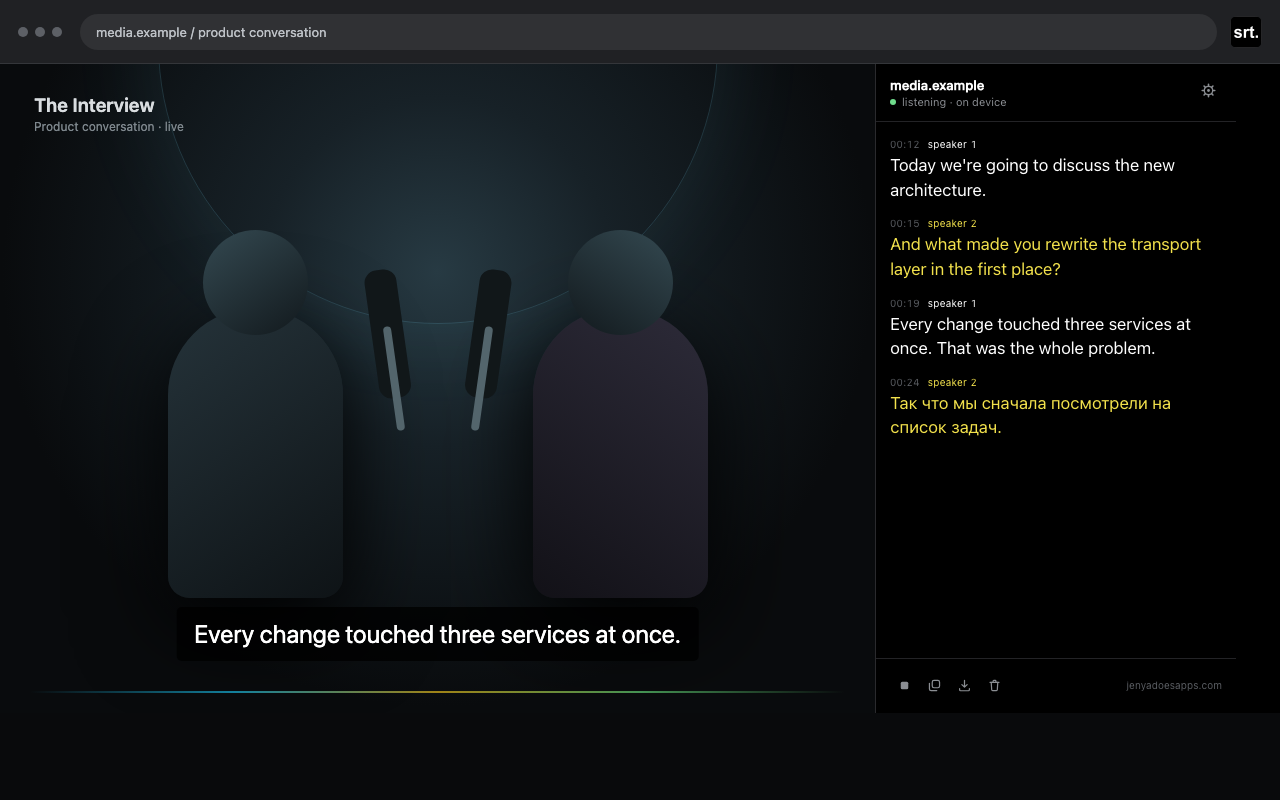
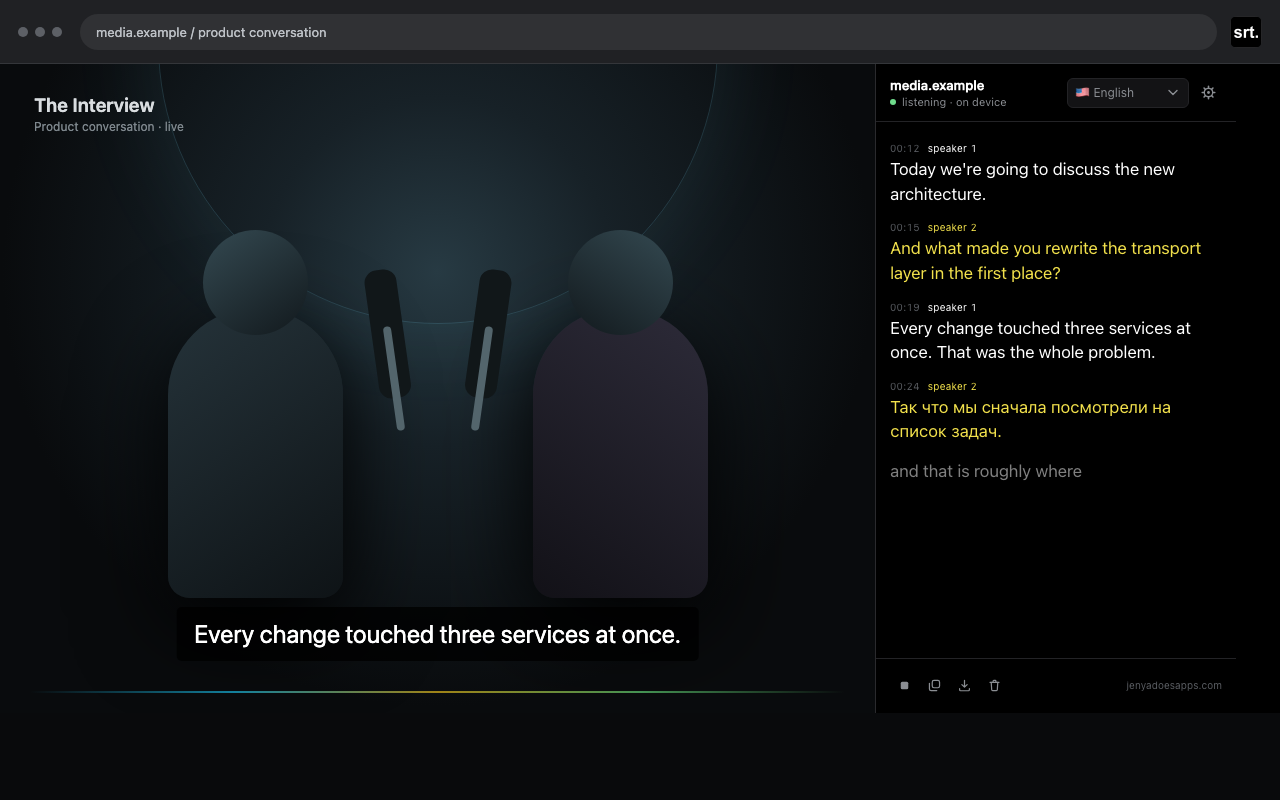
Prepare the 0.2.0 release
Bumps the version, refreshes the store copy for translation, and re-shoots
the screenshots against the panel as it is now — the old ones predate the
language picker, the translated lines, and the footer.

Two claims in the listing and the privacy policy were left over from the
spoken-language 'auto' setting that was removed: the extension no longer
reads the page's declared language, so `scripting` is only the on-page
overlay now, and the page language is out of the disclosed data.

Adds a third screenshot for translation, generated from store-preview.html,
which now takes a scene name so any panel state can be shot.

Claude-Session: https://claude.ai/code/session_01HuwxVxXeLPyQn9wPt3vXnH

diff --git a/store-preview.html b/store-preview.html
@@ -25,6 +25,8 @@
       .program strong { display: block; font-size: 19px; font-weight: 600; }
       .program span { color: #7e878d; font-size: 12px; }
       .caption { position: absolute; left: 50%; bottom: 52px; transform: translateX(-50%); max-width: 720px; padding: 10px 18px; border-radius: 5px; background: rgba(0,0,0,.78); color: #fff; font-size: 25px; line-height: 1.35; text-align: center; white-space: nowrap; }
+      .caption .sub { display: none; margin-top: 4px; font-size: 18px; opacity: .62; }
+      body.translated .caption .sub { display: block; }
       .wave { position: absolute; left: 30px; right: 30px; bottom: 20px; height: 2px; background: linear-gradient(90deg, transparent, #19bfea, #efc31c, #65dc79, transparent); opacity: .65; }
       iframe { width: 405px; height: 100%; border: 0; border-left: 1px solid #2a2a2d; background: #000; }
     </style>
@@ -40,18 +42,29 @@
         <div class="halo"></div>
         <div class="program"><strong>The Interview</strong><span>Product conversation · live</span></div>
         <div class="stage"><div class="person"></div><div class="person alt"></div></div>
-        <div class="caption">Every change touched three services at once.</div>
+        <div class="caption">
+          Every change touched three services at once.
+          <div class="sub">Каждое изменение задевало три сервиса сразу.</div>
+        </div>
         <div class="wave"></div>
       </section>
       <iframe id="panel" src="/preview.html" title="Tab Subtitles side panel"></iframe>
     </main>
     <script>
+      // ?settings shows the settings sheet, ?scene=translated the translated
+      // transcript; without either, the panel keeps its own live scene.
       const panel = document.getElementById('panel');
       panel.addEventListener('load', () => {
-        if (!new URLSearchParams(location.search).has('settings')) return;
+        const params = new URLSearchParams(location.search);
+        const settings = params.has('settings');
+        const scene = params.get('scene');
+        if (!settings && !scene) return;
+        if (scene === 'translated') document.body.classList.add('translated');
         setTimeout(() => {
-          panel.contentWindow?.__scene?.('settings');
-          setTimeout(() => panel.contentDocument?.querySelector('button[aria-label="settings"]')?.click(), 150);
+          panel.contentWindow?.__scene?.(settings ? 'settings' : scene);
+          if (settings) {
+            setTimeout(() => panel.contentDocument?.querySelector('button[aria-label="settings"]')?.click(), 150);
+          }
         }, 500);
       });
     </script>

diff --git a/src/dev/preview.ts b/src/dev/preview.ts
@@ -102,13 +102,16 @@ const SCENES: Record<string, () => void> = {
       settings: { ...base.settings, language: 'en', translateTo: 'ru' },
       transcription: { ...base.transcription, status: 'running', active: 'chrome' },
     };
+    // Every line is spoken in the source language here, so the screenshot
+    // reads as one conversation being translated in one direction.
     currentSegments = segments.map((segment, index) => ({
       ...segment,
+      text: index === 3 ? 'So we started by looking at the list of tasks.' : segment.text,
       translation: [
         'Сегодня мы обсудим новую архитектуру.',
         'А что заставило вас переписать транспортный слой?',
         'Каждое изменение задевало три сервиса сразу. В этом и была проблема.',
-        'So we started by looking at the list of tasks.',
+        'Так что мы сначала посмотрели на список задач.',
       ][index],
     }));
   },

diff --git a/CHROMEWEBSTORE.md b/CHROMEWEBSTORE.md
@@ -8,7 +8,7 @@
 
 **Summary (132 characters maximum):**
 
-Live captions for tab audio, with optional offline transcription, subtitle overlays, speaker colors, and SRT/VTT export.
+Live captions for tab audio, with on-device translation, optional offline transcription, speaker colors, and SRT/VTT export.
 
 **Detailed description:**
 
@@ -35,6 +35,7 @@ Some protected pages and DRM-protected media cannot be captured. Offline transcr
 - Store icon: `store/media/icon-128.png` (the same artwork is packaged at `dist/icons/icon-128.png`)
 - Screenshot — live captions: `store/media/screenshot-1-live.png`
 - Screenshot — settings: `store/media/screenshot-2-settings.png`
+- Screenshot — translation: `store/media/screenshot-3-translation.png`
 - Small promo tile: `store/media/promo-small-440x280.png`
 - Optional marquee: `store/media/promo-marquee-1400x560.png`
 
@@ -54,19 +55,19 @@ Create live, readable captions and downloadable subtitle transcripts from audio 
 - `storage`: Saves only extension settings, model-ready state, and short-lived session state needed to restore an active capture after the service worker sleeps.
 - `activeTab`: Grants user-initiated access to the specific tab selected by clicking the toolbar icon. The extension requests no blanket host access.
 - `tabs`: Reads the selected tab title, URL/host, and audio state to identify the captioned tab and stop cleanly if it closes or changes.
-- `scripting`: Reads the selected page’s declared language and, only when enabled, injects the on-page subtitle overlay into that user-selected tab.
+- `scripting`: Injects the on-page subtitle overlay into the user-selected tab, and only when that option is enabled.
 
 **Remote code:** No, the extension does not use remote code. JavaScript and WebAssembly are packaged in the ZIP. The optional ONNX speech and speaker models are downloaded as data and do not add extension logic.
 
 **User data categories to disclose:**
 
-- Website content: audio from the user-selected tab and the generated transcript; the page’s declared language is also read.
+- Website content: audio from the user-selected tab and the generated transcript.
 - Web history: the selected tab’s URL/host and title are read locally only to identify the active caption session.
 - Personal communications: may be present if the user chooses to caption a call or other communication.
 
 **Data-use certification:**
 
-- Data is used only to provide live captions, speaker separation, and user-requested exports.
+- Data is used only to provide live captions, speaker separation, on-device translation, and user-requested exports.
 - Data is not sold, used for advertising, used for creditworthiness or lending, or shared for unrelated purposes.
 - The developer does not allow humans to read captured audio or transcripts.
 - Use of information received from Google APIs follows the Chrome Web Store User Data Policy, including Limited Use requirements.
@@ -84,11 +85,12 @@ Create live, readable captions and downloadable subtitle transcripts from audio 
 
 ## Submission checklist
 
-- [ ] Test `release/tab-subtitles-0.1.0.zip` as an unpacked extension in a clean Chrome profile.
+- [ ] Test `release/tab-subtitles-0.2.0.zip` as an unpacked extension in a clean Chrome profile.
 - [ ] Confirm Auto mode’s cloud-processing disclosure is prominent in the listing.
+- [ ] Re-shoot both screenshots from `store-preview.html` whenever the panel changes.
 - [ ] Publish the privacy policy and add its HTTPS URL to the dashboard.
 - [ ] Add the detailed description and select Accessibility.
-- [ ] Upload the icon, two screenshots, small promo tile, and optional marquee.
+- [ ] Upload the icon, three screenshots, small promo tile, and optional marquee.
 - [ ] Complete every permission justification exactly and consistently with the privacy policy.
 - [ ] Select “No” for remote code.
 - [ ] Disclose website content, web history, and personal communications conservatively.

diff --git a/PRIVACY.md b/PRIVACY.md
@@ -6,7 +6,7 @@ Tab Subtitles creates live captions from audio playing in a browser tab selected
 
 ## Information handled
 
-When the user starts captions, the extension handles audio from the selected tab and the transcript produced from that audio. It also reads the selected tab’s title, URL/host, audio state, and declared page language to identify the caption session and choose a recognition language. Audio or text may contain personal communications or other personal information depending on what the user chooses to caption.
+When the user starts captions, the extension handles audio from the selected tab and the transcript produced from that audio. It also reads the selected tab’s title, URL/host, and audio state to identify the caption session. Audio or text may contain personal communications or other personal information depending on what the user chooses to caption.
 
 The extension stores preferences such as recognition engine, language, subtitle appearance, and feature switches in Chrome local storage. It stores the active tab identifier and invocation state in Chrome session storage while needed for the current browser session.
 
@@ -18,7 +18,7 @@ This information is used only to create live captions, optionally distinguish sp
 
 In Auto or Chrome mode, Tab Subtitles uses Chrome Speech Recognition. Depending on the user’s Chrome installation and language model availability, Chrome may transmit tab audio to Google for transcription. That processing is governed by Google’s applicable terms and privacy policy. The extension UI identifies whether Chrome reports the active recognizer as cloud-based or on-device.
 
-In Offline model mode, speech recognition runs locally in the browser. Optional speaker separation also runs locally. Optional translation uses Chrome's built-in Translator, which runs on the device after Chrome downloads the language pair's model; transcripts are not sent to a translation service. Enabling these features downloads machine-learning model files from Hugging Face over HTTPS; audio and transcripts are not sent to Hugging Face.
+In Offline model mode, speech recognition runs locally in the browser. Optional speaker separation also runs locally. Optional translation uses Chrome’s built-in Translator, which runs on the device after Chrome downloads the language pair’s model; transcripts are not sent to a translation service. Enabling these features downloads machine-learning model files from Hugging Face over HTTPS; audio and transcripts are not sent to Hugging Face.
 
 The developer does not operate a backend for Tab Subtitles and does not receive, collect, sell, or use tab audio, transcripts, browsing information, or settings for advertising or analytics. Information is not shared with third parties except for Chrome/Google processing described above when the user chooses Auto or Chrome mode.
 
